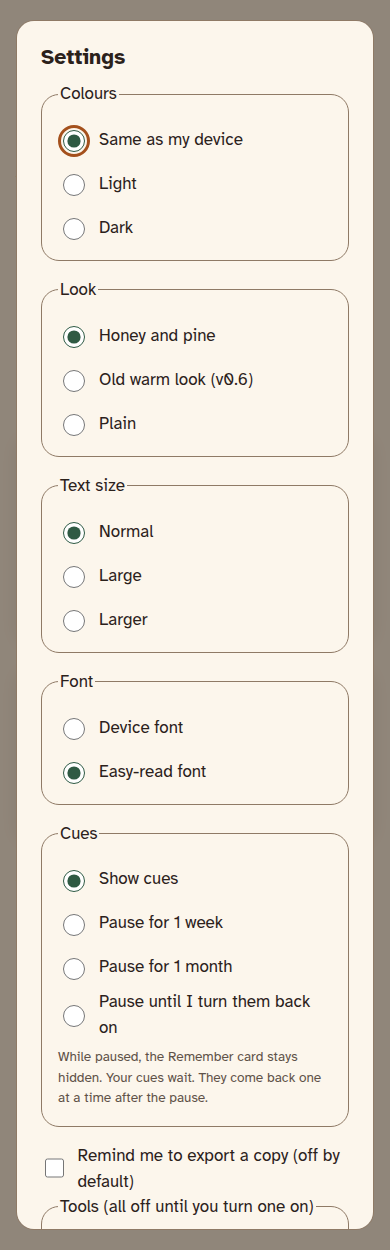
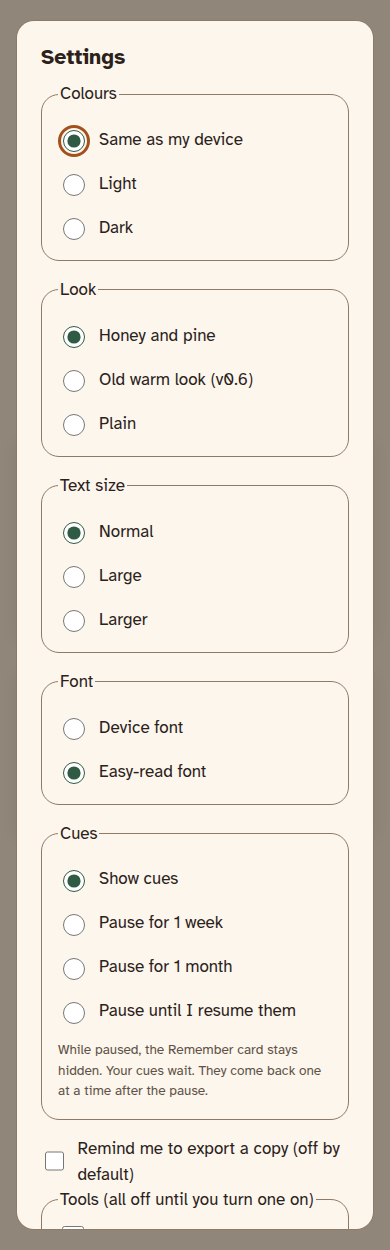
Pause cues: review fixes (full-length pause, no hidden restart, other tab respected), choice tests, new Settings screenshot

Changed region(s): [[0.0923, 0.78, 0.8923, 0.9672]]

diff --git a/tests/cues.test.js b/tests/cues.test.js
@@ -52,15 +52,25 @@ test('pause: off and unknown modes are never paused', () => {
   assert.equal(effectivePause('nope', D(2026, 1, 1), D(2026, 1, 2)), 'off');
   assert.equal(cuesPaused('off', 0, D(2026, 1, 10)), false);
 });
-test('pause: one week runs 7 local days from the day it was chosen', () => {
+test('pause: one week is a full week from the moment it was chosen', () => {
   const since = D(2026, 1, 10, 23);
-  assert.equal(effectivePause('week', since, D(2026, 1, 16, 23)), 'week'); // day 7
-  assert.equal(effectivePause('week', since, D(2026, 1, 17, 0)), 'off');   // day 8 starts
+  assert.equal(effectivePause('week', since, D(2026, 1, 17, 22)), 'week'); // 6 days 23 hours later
+  assert.equal(effectivePause('week', since, D(2026, 1, 17, 23)), 'off');  // exactly 7 days later
 });
-test('pause: one month runs 30 local days', () => {
+test('pause: one month is 30 calendar days', () => {
   const since = D(2026, 1, 10, 8);
-  assert.equal(effectivePause('month', since, D(2026, 2, 8, 22)), 'month');
-  assert.equal(effectivePause('month', since, D(2026, 2, 9, 0)), 'off');
+  assert.equal(effectivePause('month', since, D(2026, 2, 9, 7)), 'month');
+  assert.equal(effectivePause('month', since, D(2026, 2, 9, 8)), 'off');
+});
+test('pause: across a clock change the week still ends at the same clock time', () => {
+  const since = new Date(2026, 2, 24, 9, 0).getTime(); // UK clocks go forward on 29 March 2026
+  assert.equal(effectivePause('week', since, new Date(2026, 2, 31, 8, 59).getTime()), 'week');
+  assert.equal(effectivePause('week', since, new Date(2026, 2, 31, 9, 0).getTime()), 'off');
+});
+test('pause: a start time more than a day in the future is wrong, so it is not paused', () => {
+  const now = D(2026, 1, 10, 12);
+  assert.equal(effectivePause('week', now + 30 * 86400000, now), 'off');
+  assert.equal(effectivePause('week', now + 3600000, now), 'week'); // a small clock step back is fine
 });
 test('pause: until I turn it back on never ends', () => {
   assert.equal(effectivePause('until', 0, D(2030, 1, 1)), 'until');
@@ -68,4 +78,24 @@ test('pause: until I turn it back on never ends', () => {
 });
 test('pause: a timed pause with no start time is not paused', () => {
   assert.equal(effectivePause('week', 0, D(2026, 1, 10)), 'off');
+});
+
+import { applyPauseChoice } from '../src/cues.js';
+test('choice: picking a pause starts it now; picking off clears it', () => {
+  const now = D(2026, 1, 10, 12);
+  assert.deepEqual(applyPauseChoice({ cuesPause: 'off', cuesPauseAt: 0 }, 'week', now), { cuesPause: 'week', cuesPauseAt: now });
+  assert.deepEqual(applyPauseChoice({ cuesPause: 'week', cuesPauseAt: now - 1000 }, 'off', now), { cuesPause: 'off', cuesPauseAt: 0 });
+});
+test('choice: picking what is already in force keeps the start time', () => {
+  const now = D(2026, 1, 10, 12), at = now - 3 * 86400000;
+  assert.deepEqual(applyPauseChoice({ cuesPause: 'week', cuesPauseAt: at }, 'week', now), { cuesPause: 'week', cuesPauseAt: at });
+  assert.deepEqual(applyPauseChoice({ cuesPause: 'until', cuesPauseAt: at }, 'until', now), { cuesPause: 'until', cuesPauseAt: at });
+});
+test('choice: a stale radio after the pause ended starts a fresh pause only when the user picks it', () => {
+  const now = D(2026, 1, 20, 12), old = D(2026, 1, 1, 12);
+  assert.deepEqual(applyPauseChoice({ cuesPause: 'week', cuesPauseAt: old }, 'off', now), { cuesPause: 'week', cuesPauseAt: old }); // already off in effect: nothing changes
+  assert.deepEqual(applyPauseChoice({ cuesPause: 'week', cuesPauseAt: old }, 'month', now), { cuesPause: 'month', cuesPauseAt: now });
+});
+test('choice: a bad value means off', () => {
+  assert.deepEqual(applyPauseChoice({ cuesPause: 'until', cuesPauseAt: 5 }, 'forever', D(2026, 1, 1)), { cuesPause: 'off', cuesPauseAt: 0 });
 });

diff --git a/src/ui.js b/src/ui.js
@@ -7,7 +7,7 @@ import { splitLines, MAX_PASTE } from './paste.js';
 import { loadSettings, saveSettings, applySettings } from './settings.js';
 import { whatsNewDue, markSeen } from './whatsnew.js';
 import { mountTools } from './tools-ui.js';
-import { pickCue, sameDay, effectivePause, cuesPaused } from './cues.js';
+import { pickCue, sameDay, effectivePause, cuesPaused, applyPauseChoice } from './cues.js';
 import { icon, mascot } from './icons.js';
 
 const MAX_FILE = 10 * 1024 * 1024; // bytes
@@ -47,7 +47,8 @@ export function mount(doc, store, env = {}) {
     const next = nextFive(items);
 
     // Cue card: at most one cue, same place. It is marked shown once per day, so the schedule moves on.
-    const paused = cuesPaused(settings.cuesPause, settings.cuesPauseAt, now());
+    const live = loadSettings(storage); // read again: another tab may have paused the cues
+    const paused = cuesPaused(live.cuesPause, live.cuesPauseAt, now());
     let cue = paused ? null : pickCue(items, now());
     if (cue && !(cue.shown && sameDay(cue.shown, now()))) { cue = await store.markCueShown(cue.id, now()); if (mine !== gen) return; } // null: another tab dropped it first
     $('cue-card').hidden = !cue;
@@ -226,13 +227,11 @@ export function mount(doc, store, env = {}) {
     fillSettings();
     if (dlg.showModal) dlg.showModal(); else dlg.setAttribute('open', '');
   });
-  sform.addEventListener('change', () => {
-    const next = { ...settings, backupNote: sform.elements.backupNote.checked };
-    for (const k of ['theme', 'size', 'font', 'look']) next[k] = sform.elements[k].value || settings[k];
-    const before = effectivePause(settings.cuesPause, settings.cuesPauseAt, now());
-    next.cuesPause = sform.elements.cuesPause.value || 'off';
-    if (next.cuesPause !== before) next.cuesPauseAt = next.cuesPause === 'off' ? 0 : now(); // the pause starts when it is chosen
-    else next.cuesPause = before;
+  sform.addEventListener('change', (e) => {
+    const base = loadSettings(storage); // start from what is stored: another tab may have changed it
+    const next = { ...base, backupNote: sform.elements.backupNote.checked };
+    for (const k of ['theme', 'size', 'font', 'look']) next[k] = sform.elements[k].value || base[k];
+    if (e.target && e.target.name === 'cuesPause') Object.assign(next, applyPauseChoice(base, e.target.value, now())); // the pause starts when it is chosen
     settings = next; saveSettings(storage, settings);
     if (win) applySettings(win, settings);
     render();

diff --git a/src/cues.js b/src/cues.js
@@ -28,13 +28,23 @@ export function pickCue(items, now) {
 // Pause all cues. mode: off | week | month | until (until the user turns it back on).
 // since = the time the pause was chosen. While paused no cue is picked and none is marked shown,
 // so the schedule waits. After the pause the due cues come back one at a time, as before.
+// A timed pause ends N calendar days later at the same clock time, so "1 week" is a full week.
 export const PAUSE_DAYS = { week: 7, month: 30 };
 export function effectivePause(mode, since, now) {
   if (mode === 'until') return 'until';
   const days = PAUSE_DAYS[mode];
   if (!days || !since) return 'off';
-  const s = startOfDay(since);
-  const end = new Date(s.getFullYear(), s.getMonth(), s.getDate() + days).getTime();
+  if (since > now + 86400000) return 'off'; // more than a day in the future: the clock was changed or the value is wrong
+  const s = new Date(since);
+  const end = new Date(s.getFullYear(), s.getMonth(), s.getDate() + days, s.getHours(), s.getMinutes(), s.getSeconds()).getTime();
   return now < end ? mode : 'off';
 }
 export const cuesPaused = (mode, since, now) => effectivePause(mode, since, now) !== 'off';
+
+// The user picked a pause choice in Settings. Returns the two settings to store.
+// Picking what is already in force keeps the start time. Other settings never call this.
+export function applyPauseChoice(s, value, now) {
+  const mode = ['off', 'week', 'month', 'until'].includes(value) ? value : 'off';
+  if (mode === effectivePause(s.cuesPause, s.cuesPauseAt, now)) return { cuesPause: s.cuesPause, cuesPauseAt: s.cuesPauseAt };
+  return { cuesPause: mode, cuesPauseAt: mode === 'off' ? 0 : now };
+}

diff --git a/index.html b/index.html
@@ -105,12 +105,12 @@
         <label><input type="radio" name="font" value="system"> Device font</label>
         <label><input type="radio" name="font" value="easy"> Easy-read font</label>
       </fieldset>
-      <fieldset><legend>Cues</legend>
+      <fieldset aria-describedby="pause-hint"><legend>Cues</legend>
         <label><input type="radio" name="cuesPause" value="off"> Show cues</label>
         <label><input type="radio" name="cuesPause" value="week"> Pause for 1 week</label>
         <label><input type="radio" name="cuesPause" value="month"> Pause for 1 month</label>
         <label><input type="radio" name="cuesPause" value="until"> Pause until I resume them</label>
-        <p class="hint">While paused, the Remember card stays hidden. Your cues wait. They come back one at a time after the pause.</p>
+        <p class="hint" id="pause-hint">While paused, the Remember card stays hidden. Your cues wait. They come back one at a time after the pause.</p>
       </fieldset>
       <label class="row"><input type="checkbox" name="backupNote"> Remind me to export a copy (off by default)</label>
       <fieldset id="tools-set"><legend>Tools (all off until you turn one on)</legend></fieldset>
